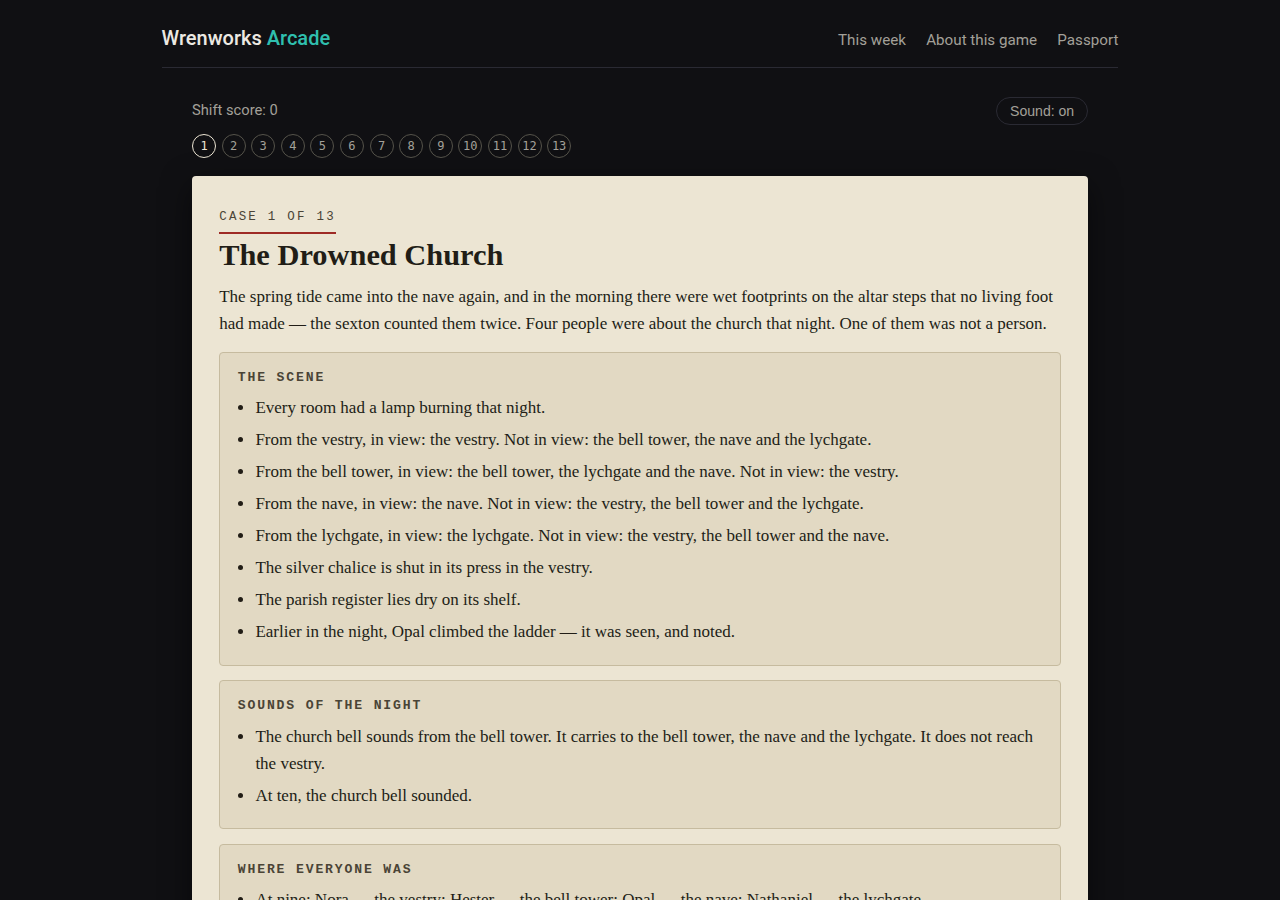
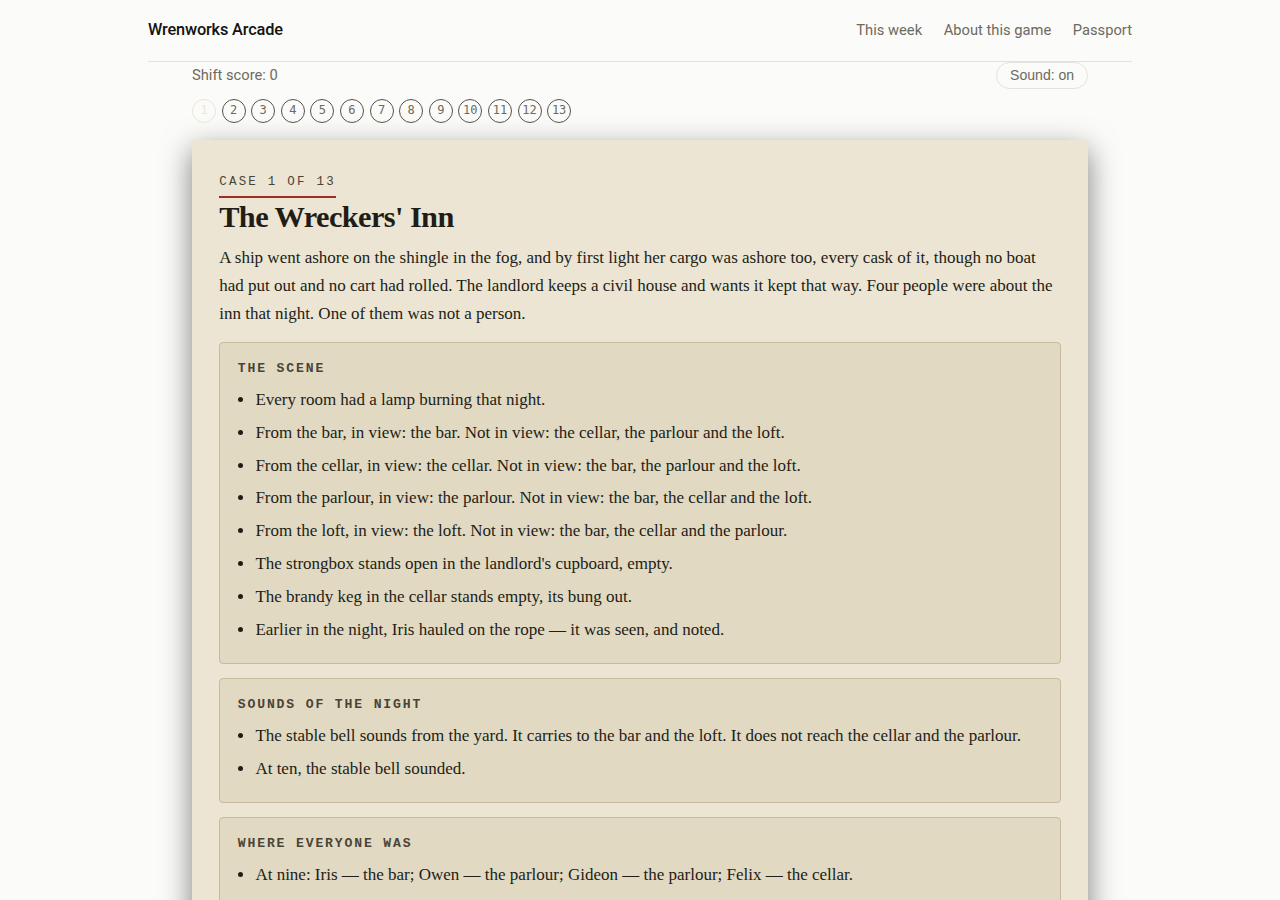
Simple palette, less on the page
Home is now just the hero for this week's game, the screenshot and
a slim signup strip — the explainer, record and Vault sections are
off the page (their subjects keep their own pages).

Shell palette is monochrome light: off-white page, ink text, grey
hairlines, black buttons, no accent colour anywhere. The game's
three screenshots were retaken under the new shell so nothing on
the page shows the old dark teal design.

diff --git a/arcade.css b/arcade.css
@@ -1,15 +1,15 @@
 /* Wrenworks Arcade — shell styles.
-   Sleek, minimalist, modern: near-black, one accent (the studio teal),
-   open sections separated by whitespace and hairlines, no card clutter.
+   Simple monochrome light palette: warm off-white page, ink text,
+   hairlines and whitespace instead of boxes. No accent colour in the
+   shell at all — the only colour on a page lives inside the game art.
    The games keep their own art direction in their own stylesheets. */
 :root {
-  --bg: #0a0a0c;
-  --panel-2: #141419;
-  --line: #222228;
-  --ink: #f4f2ec;
-  --muted: #a09c94;
-  --accent: #2fbfae;
-  --accent-ink: #052e29;
+  --bg: #fbfbf9;
+  --surface: #ffffff;
+  --soft: #f2f1ec;
+  --line: #e4e2da;
+  --ink: #141310;
+  --muted: #6d6a61;
   --radius: 14px;
 }
 
@@ -38,7 +38,7 @@ header.site .brand {
   font-size: 1.02rem; font-weight: 650; letter-spacing: -0.01em;
   color: var(--ink); text-decoration: none;
 }
-header.site .brand span { color: var(--accent); }
+header.site .brand span { color: var(--ink); }
 header.site nav { display: flex; flex-wrap: wrap; gap: 0.2rem 1.35rem; }
 header.site nav a { color: var(--muted); text-decoration: none; font-size: 0.92rem; }
 header.site nav a:hover { color: var(--ink); text-decoration: none; }
@@ -49,15 +49,15 @@ h1 { font-size: clamp(2rem, 5vw, 2.8rem); line-height: 1.1; letter-spacing: -0.0
 h2 { font-size: 1.22rem; line-height: 1.25; letter-spacing: -0.01em; font-weight: 650; margin: 2.4rem 0 0.55rem; }
 h3 { font-size: 1.02rem; margin: 1.4rem 0 0.4rem; }
 p { margin: 0.55rem 0; }
-a { color: var(--accent); text-decoration: none; }
+a { color: var(--ink); text-decoration: underline; text-underline-offset: 0.14em; }
 a:hover { text-decoration: underline; }
 .muted { color: var(--muted); }
 .small { font-size: 0.92rem; }
-:focus-visible { outline: 2px solid var(--accent); outline-offset: 2px; }
+:focus-visible { outline: 2px solid var(--ink); outline-offset: 2px; }
 
 .kicker {
   text-transform: uppercase; letter-spacing: 0.18em; font-size: 0.72rem;
-  font-weight: 600; color: var(--accent); margin: 0;
+  font-weight: 600; color: var(--ink); margin: 0;
 }
 
 /* Open sections: whitespace and a hairline, never a box */
@@ -74,18 +74,19 @@ a:hover { text-decoration: underline; }
 .hero-shot {
   display: block; width: 100%; height: auto; margin-top: 2.4rem;
   border: 1px solid var(--line); border-radius: var(--radius);
+  box-shadow: 0 18px 44px rgba(20, 19, 16, 0.10), 0 2px 8px rgba(20, 19, 16, 0.05);
 }
 
-/* Buttons — one accent, pill shape */
+/* Buttons — ink on paper, pill shape */
 .btn {
   display: inline-block; padding: 0.62rem 1.45rem; border-radius: 999px;
-  background: var(--accent); color: var(--accent-ink); font-weight: 650; text-decoration: none;
-  border: 1px solid var(--accent); cursor: pointer; font-size: 1rem; line-height: 1.35;
+  background: var(--ink); color: #ffffff; font-weight: 650; text-decoration: none;
+  border: 1px solid var(--ink); cursor: pointer; font-size: 1rem; line-height: 1.35;
 }
-.btn:hover { opacity: 0.88; text-decoration: none; }
+.btn:hover { opacity: 0.85; text-decoration: none; }
 .btn.large { padding: 0.95rem 2.3rem; font-size: 1.1rem; }
 .btn.ghost { background: transparent; color: var(--ink); border-color: var(--line); font-weight: 550; }
-.btn.ghost:hover { border-color: var(--accent); color: var(--accent); opacity: 1; }
+.btn.ghost:hover { opacity: 0.7; }
 .btn:disabled { opacity: 0.45; cursor: default; }
 
 /* Boards — bare tables, hairline rows */
@@ -98,7 +99,7 @@ table.board td.num, table.board th.num { text-align: right; }
 .signup { display: flex; gap: 0.6rem; flex-wrap: wrap; margin: 1rem 0 0.4rem; max-width: 40rem; }
 .signup input[type="email"], .signup input[type="text"] {
   flex: 1 1 16rem; padding: 0.62rem 1.1rem; border-radius: 999px;
-  border: 1px solid var(--line); background: var(--panel-2); color: var(--ink);
+  border: 1px solid var(--line); background: var(--soft); color: var(--ink);
   font-size: 1rem;
 }
 .signup input::placeholder { color: var(--muted); }
@@ -109,13 +110,13 @@ table.board td.num, table.board th.num { text-align: right; }
   background: transparent; color: var(--muted); border: 1px solid var(--line);
   border-radius: 999px; padding: 0.35rem 0.95rem; cursor: pointer; font-size: 0.92rem;
 }
-.like-btn:hover { color: var(--ink); border-color: var(--muted); }
-.like-btn[aria-pressed="true"] { border-color: var(--accent); color: var(--accent); }
+.like-btn:hover { color: var(--ink); }
+.like-btn[aria-pressed="true"] { background: var(--ink); border-color: var(--ink); color: #ffffff; }
 
 /* Game page screenshots — borderless, rounded, quiet captions */
 .shots { display: grid; grid-template-columns: repeat(auto-fit, minmax(16rem, 1fr)); gap: 1.4rem; margin: 1.6rem 0; }
 .shots figure { margin: 0; }
-.shots img { width: 100%; border-radius: var(--radius); display: block; }
+.shots img { width: 100%; border-radius: var(--radius); display: block; border: 1px solid var(--line); }
 .shots figcaption { color: var(--muted); font-size: 0.9rem; margin-top: 0.5rem; }
 
 footer.site {

diff --git a/index.html b/index.html
@@ -48,11 +48,6 @@
   <img class="hero-shot" src="games/the-night-log/assets/nightlog-case.png" alt="A Night Log case file: the scene, the sounds, and where everyone was at each bell">
 </section>
 
-<section class="section">
-  <h2>One game a week</h2>
-  <p class="muted">Every Friday a new game opens here — a different kind of game from the last, free, in your browser, with no downloads and no accounts. A game is playable for its week. When the next one arrives, it moves to the Vault: its page, its scores and its medals stay, but it cannot be played again — unless players ask for it back, loudly enough, and often enough.</p>
-</section>
-
 <section class="section" aria-labelledby="signup-h">
   <h2 id="signup-h">Get the next game in your inbox</h2>
   <p class="muted">One email each Friday, when the new game opens. Nothing else, no selling your address, unsubscribe in one click. Joining takes one extra click: the list service emails you to confirm the address is yours.</p>
@@ -64,17 +59,6 @@
     <input type="email" name="email_address" required placeholder="you@example.com" aria-label="Email address">
     <button class="btn" type="submit">Tell me when it drops</button>
   </form>
-</section>
-
-<section class="section">
-  <h2>Your record</h2>
-  <p class="muted">Finishing games earns championship points, and medals earn more. <a href="championship/index.html">How points work</a>. The table below is your own record, kept in this browser.</p>
-  <div id="champ-home"><p class="muted">No points yet. The first names on this table are still to be earned.</p></div>
-</section>
-
-<section class="section">
-  <h2>The Vault</h2>
-  <p class="muted">Games that have had their week rest here — pages, scores and medals kept, doors locked. <a href="vault/index.html">Visit the Vault</a>.</p>
 </section>
 
 </main>
@@ -99,15 +83,6 @@
   }
   btn.addEventListener("click", function () { ArcadeAPI.like(slug); renderLike(); });
   renderLike();
-
-  var table = ArcadeAPI.getChampionship();
-  if (table.length) {
-    var html = '<table class="board"><tr><th>Player</th><th class="num">Points</th></tr>';
-    table.slice(0, 10).forEach(function (r) {
-      html += "<tr><td>" + r.name.replace(/</g, "&lt;") + '</td><td class="num">' + r.points + "</td></tr>";
-    });
-    document.getElementById("champ-home").innerHTML = html + "</table>";
-  }
 })();
 </script>
 </body>

diff --git a/passport/index.html b/passport/index.html
@@ -39,7 +39,7 @@
 <label class="small muted" for="player-name">Name shown on leaderboards (a nickname, never your real name or email):</label>
 <p class="signup" style="margin-top:0.3rem">
   <input type="text" id="name-input" maxlength="24" placeholder="e.g. NightOwl"
-    style="flex:1 1 16rem;padding:0.6rem 0.8rem;border-radius:7px;border:1px solid var(--line);background:var(--panel-2);color:var(--ink);font-size:1rem">
+    style="flex:1 1 16rem;padding:0.6rem 0.8rem;border-radius:7px;border:1px solid var(--line);background:var(--soft);color:var(--ink);font-size:1rem">
   <button class="btn ghost" id="name-save" type="button">Save name</button>
 </p>
 <p class="muted small" id="name-msg" role="status"></p>
@@ -100,13 +100,13 @@
   document.getElementById("card-btn").addEventListener("click", function () {
     var c = document.getElementById("card");
     var ctx = c.getContext("2d");
-    ctx.fillStyle = "#101013"; ctx.fillRect(0, 0, 1200, 630);
-    ctx.strokeStyle = "#2fbfae"; ctx.lineWidth = 3; ctx.strokeRect(28, 28, 1144, 574);
-    ctx.fillStyle = "#ece9e2"; ctx.font = "700 54px Georgia, serif";
+    ctx.fillStyle = "#ffffff"; ctx.fillRect(0, 0, 1200, 630);
+    ctx.strokeStyle = "#141310"; ctx.lineWidth = 3; ctx.strokeRect(28, 28, 1144, 574);
+    ctx.fillStyle = "#141310"; ctx.font = "700 54px Georgia, serif";
     ctx.fillText("Wrenworks Arcade — Passport", 70, 130);
-    ctx.font = "32px Georgia, serif"; ctx.fillStyle = "#ece5d3";
+    ctx.font = "32px Georgia, serif"; ctx.fillStyle = "#141310";
     ctx.fillText(ArcadeAPI.getName() || "A player", 70, 200);
-    ctx.font = "28px -apple-system, sans-serif"; ctx.fillStyle = "#a3a099";
+    ctx.font = "28px -apple-system, sans-serif"; ctx.fillStyle = "#6d6a61";
     wrap(ctx, medalSummary(), 70, 280, 1050, 42);
     var pts = ArcadeAPI.getChampionship();
     ctx.fillText("One new game every Friday · wrenly40.github.io", 70, 545);
